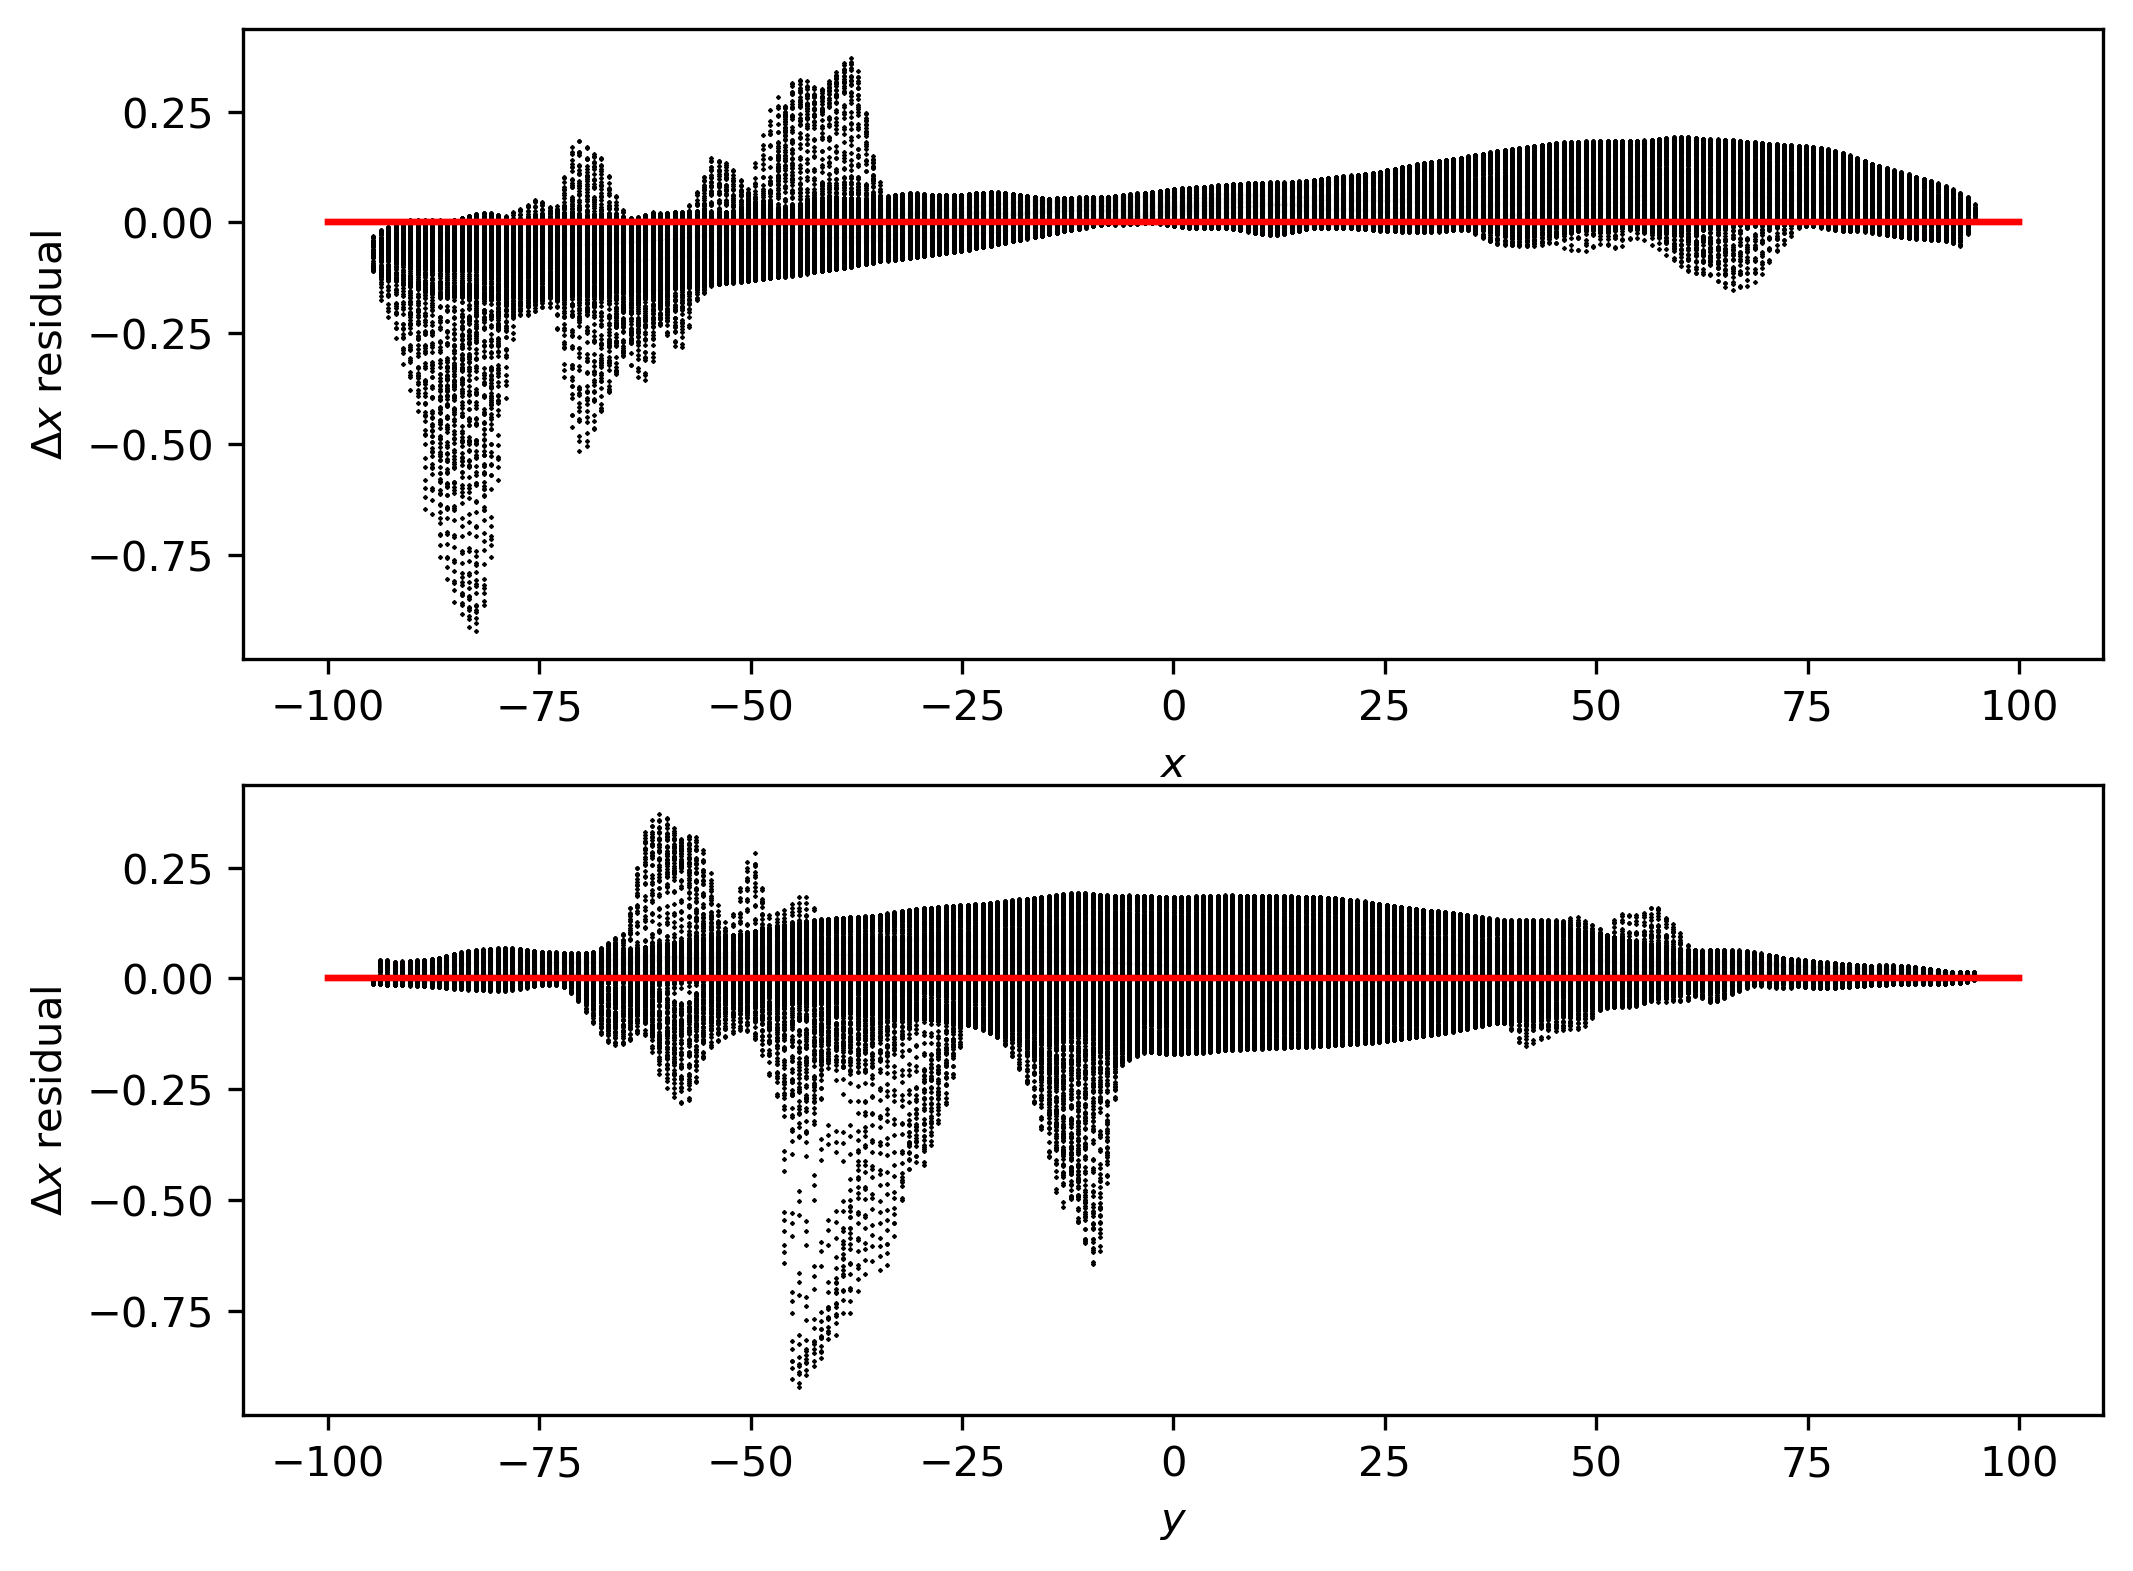
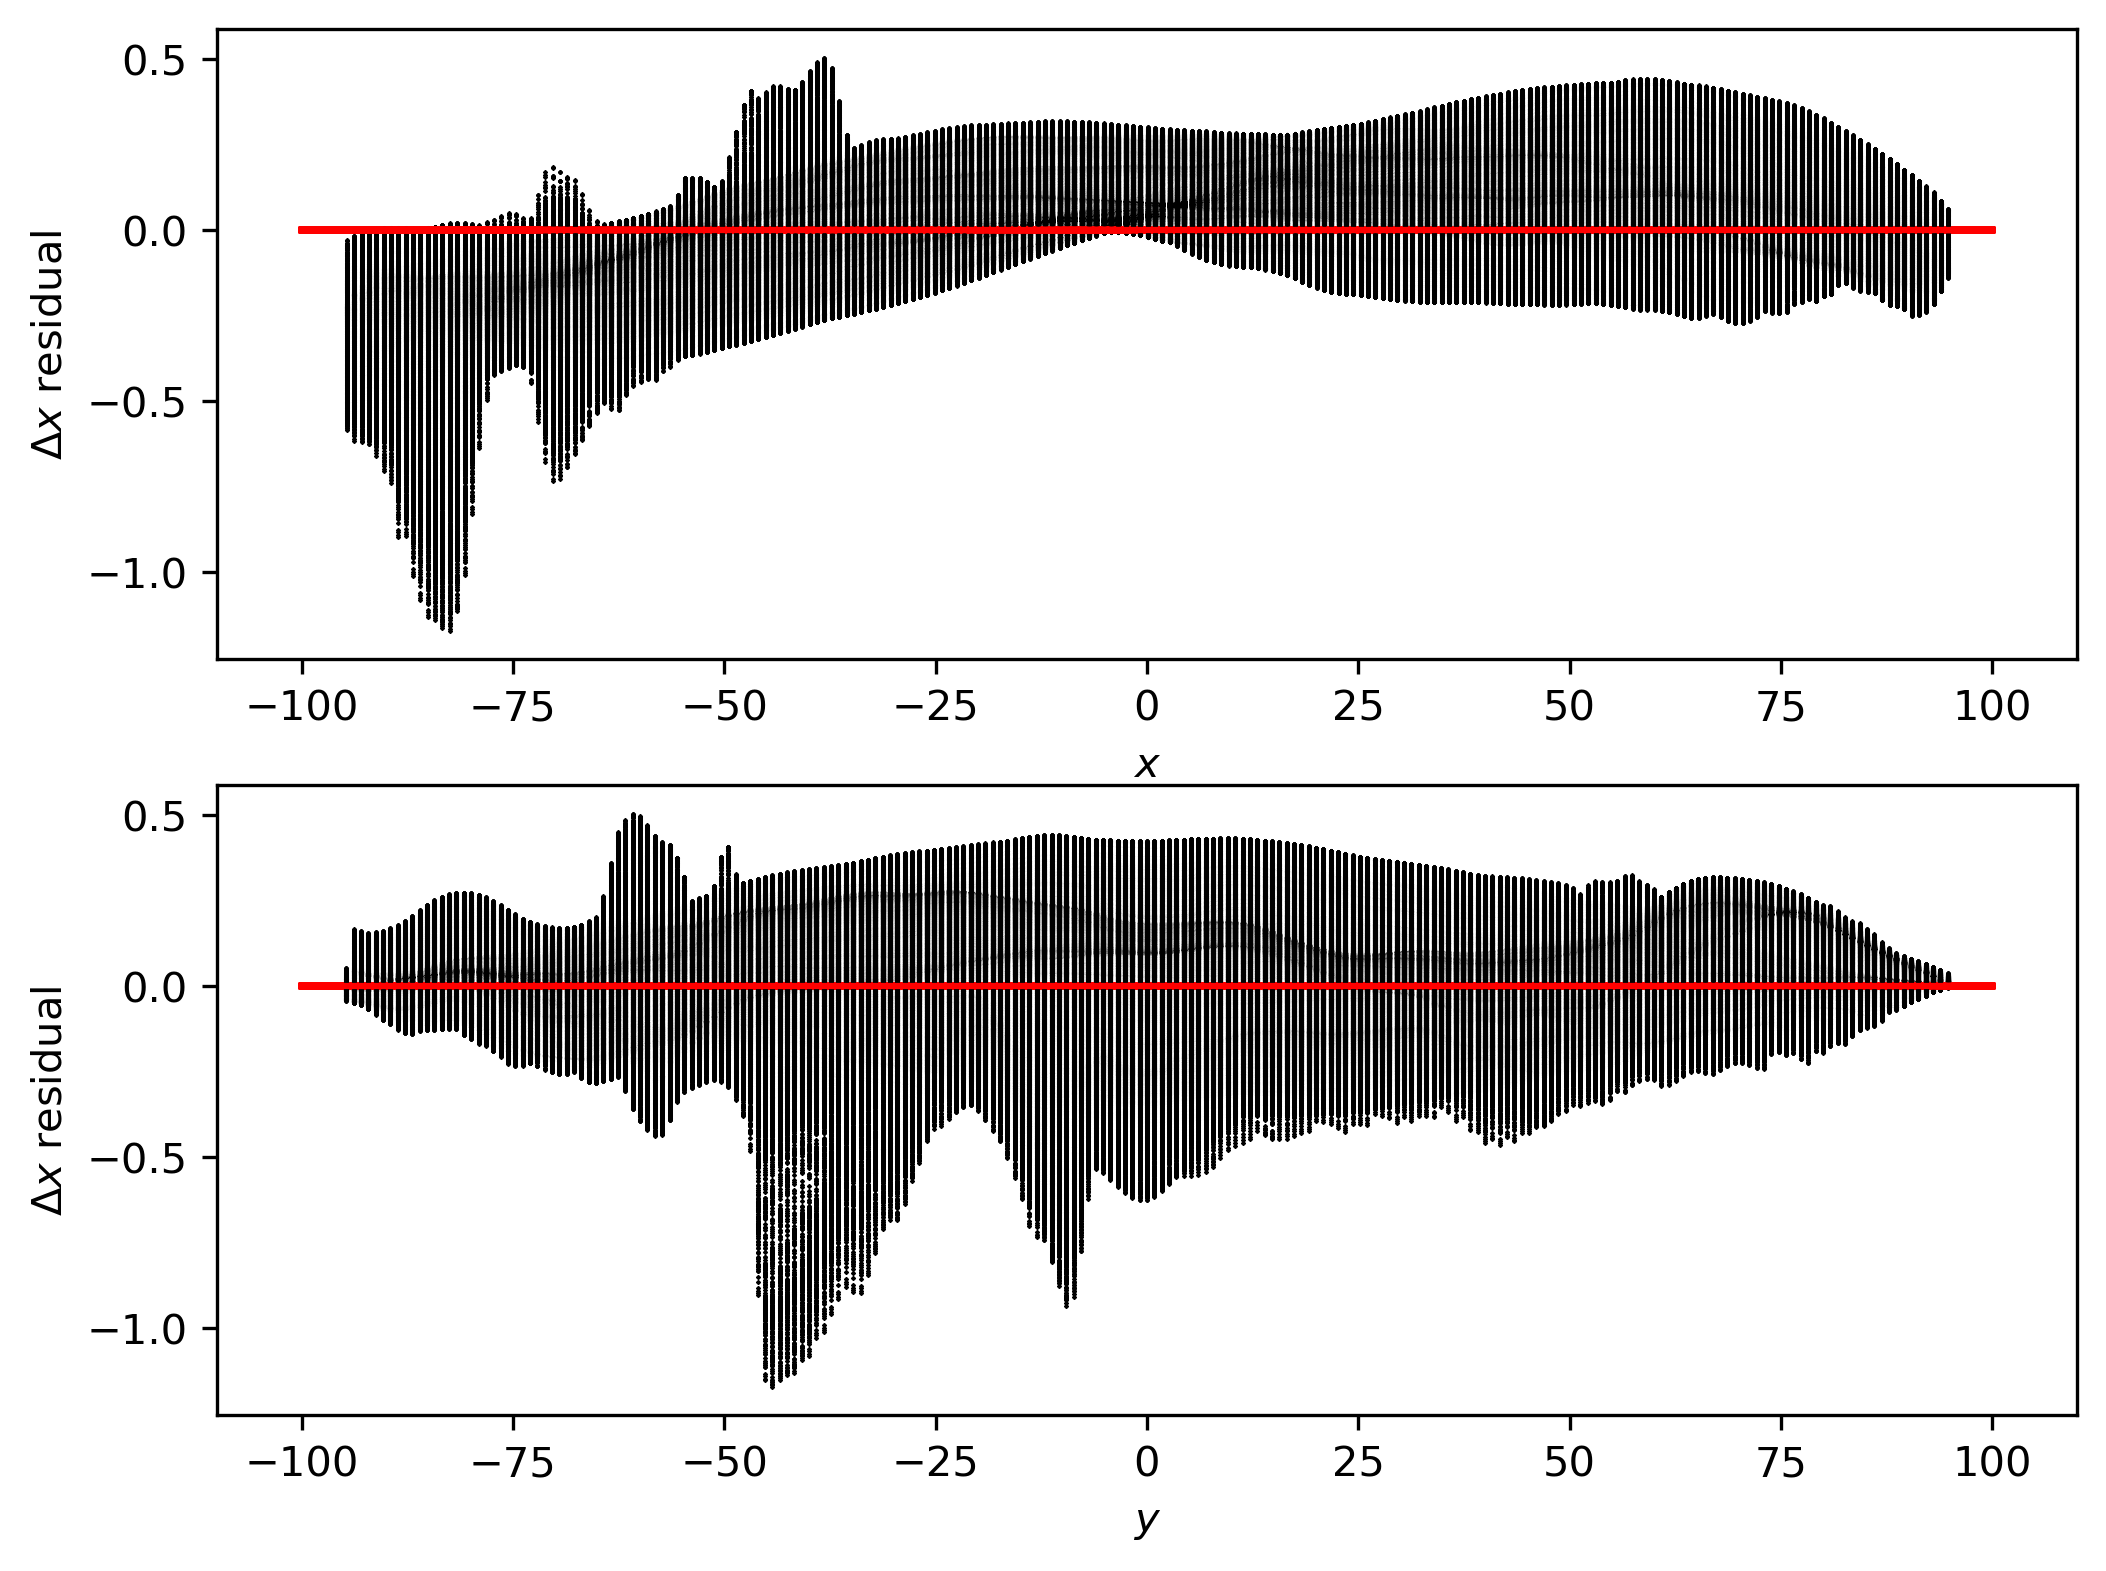
try line plots

diff --git a/lin_ortho_known/opt_results/residual_plots/plot_last_only_w.py b/lin_ortho_known/opt_results/residual_plots/plot_last_only_w.py
@@ -1,0 +1,83 @@
+import numpy as np
+import matplotlib.pyplot as plt
+import os
+
+homeuser = os.path.expanduser('~')
+
+filenames = ['residuals_blue00_w.npy',
+             'residuals_blue01_w.npy',
+             'residuals_blue02_w.npy',
+             'residuals_blue03_w.npy']
+datanames = ['blue00.npy',
+             'blue01_rotated_90.npy',
+             'blue02_rotated_90.npy',
+             'blue03.npy']
+
+perfx = np.linspace(-100, 100, 100)
+perfy = np.zeros(100)
+
+for i in range(0, 4):
+# for residual_file in filenames:
+    resids = np.load(filenames[i], allow_pickle=True)
+    print(resids.shape)
+    data = np.load(os.path.join(homeuser, datanames[i]), allow_pickle=True)
+    fig_dx, ax_dx = plt.subplots(2, 1, figsize=(8, 6))
+    fig_dy, ax_dy = plt.subplots(2, 1, figsize=(8, 6))
+    fig_dz, ax_dz = plt.subplots(2, 1, figsize=(8, 6))
+    my_shape = resids.shape
+    for j in range(my_shape[1]):
+        print(j)
+        if j == my_shape[1] - 1:
+            x = data[j][0][:, 0]
+            y = data[j][0][:, 1]
+            z = data[j][0][:, 2]
+            dx = resids[0][j]
+            dy = resids[1][j]
+            dz = resids[2][j]
+
+            # ax_dx[0].set_title('$\Delta x$ residual' + ' Test number: ' + str(i+1))
+            ax_dx[0].plot(x, dx, 'xk', markersize=.5)
+            ax_dx[0].plot(perfx, perfy, '-r')
+            ax_dx[0].set_xlabel('$x$', fontsize='10')
+            ax_dx[0].set_ylabel('$\Delta x$ residual', fontsize='10')
+            ax_dx[1].plot(y, dx, 'xk', markersize=.5)
+            ax_dx[1].plot(perfx, perfy, '-r')
+            ax_dx[1].set_xlabel('$y$', fontsize='10')
+            ax_dx[1].set_ylabel('$\Delta x$ residual', fontsize='10')
+
+            # ax_dy[0].set_title('$\Delta y$ residual' + ' Test number: ' + str(i+1))
+            ax_dy[0].plot(x, dy, 'xk', markersize=.5)
+            ax_dy[0].plot(perfx, perfy, '-r')
+            ax_dy[0].set_xlabel('$x$', fontsize='10')
+            ax_dy[0].set_ylabel('$\Delta y$ residual', fontsize='10')
+            ax_dy[1].plot(y, dy, 'xk', markersize=.5)
+            ax_dy[1].plot(perfx, perfy, '-r')
+            ax_dy[1].set_xlabel('$y$', fontsize='10')
+            ax_dy[1].set_ylabel('$\Delta y$ residual', fontsize='10')
+
+            # ax_dz[0].set_title('$\Delta z$ residual' + ' Test number: ' + str(i+1))
+            ax_dz[0].plot(x, dz, 'xk', markersize=.5)
+            ax_dz[0].plot(perfx, perfy, '-r')
+            ax_dz[0].set_xlabel('$x$', fontsize='10')
+            ax_dz[0].set_ylabel('$\Delta z$ residual', fontsize='10')
+            ax_dz[1].plot(y, dz, 'xk', markersize=.5)
+            ax_dz[1].plot(perfx, perfy, '-r')
+            ax_dz[1].set_xlabel('$y$', fontsize='10')
+            ax_dz[1].set_ylabel('$\Delta z$ residual', fontsize='10')
+            # if i == 1 or i == 2:
+            #     ax_dx[0].set_ylim([-2., 2.])
+            #     ax_dx[1].set_ylim([-2, 2.])
+            #     ax_dy[0].set_ylim([-2., 2.])
+            #     ax_dy[1].set_ylim([-2, 2.])
+            #     ax_dz[0].set_ylim([-10., 10.])
+            #     ax_dz[1].set_ylim([-10, 10.])
+    # save each fig
+    fig_dx.savefig('last_dx' + str(i) + '_w.png', bbox_inches='tight', dpi=300)
+    fig_dy.savefig('last_dy' + str(i) + '_w.png', bbox_inches='tight', dpi=300)
+    fig_dz.savefig('last_dz' + str(i) + '_w.png', bbox_inches='tight', dpi=300)
+    # fig_dx.savefig('dx' + str(i) + '.pdf', bbox_inches='tight')
+    # fig_dy.savefig('dy' + str(i) + '.pdf', bbox_inches='tight')
+    # fig_dz.savefig('dz' + str(i) + '.pdf', bbox_inches='tight')
+
+        # break
+    # plt.show()

diff --git a/lin_ortho_known/opt_results/residual_plots/plot_last_only_no_weight.py b/lin_ortho_known/opt_results/residual_plots/plot_last_only_no_weight.py
@@ -1,0 +1,83 @@
+import numpy as np
+import matplotlib.pyplot as plt
+import os
+
+homeuser = os.path.expanduser('~')
+
+filenames = ['residuals_blue00.npy',
+             'residuals_blue01.npy',
+             'residuals_blue02.npy',
+             'residuals_blue03.npy']
+datanames = ['blue00.npy',
+             'blue01_rotated_90.npy',
+             'blue02_rotated_90.npy',
+             'blue03.npy']
+
+perfx = np.linspace(-100, 100, 100)
+perfy = np.zeros(100)
+
+for i in range(0, 4):
+# for residual_file in filenames:
+    resids = np.load(filenames[i], allow_pickle=True)
+    print(resids.shape)
+    data = np.load(os.path.join(homeuser, datanames[i]), allow_pickle=True)
+    fig_dx, ax_dx = plt.subplots(2, 1, figsize=(8, 6))
+    fig_dy, ax_dy = plt.subplots(2, 1, figsize=(8, 6))
+    fig_dz, ax_dz = plt.subplots(2, 1, figsize=(8, 6))
+    my_shape = resids.shape
+    for j in range(my_shape[1]):
+        print(j)
+        if j == my_shape[1] - 1:
+            x = data[j][0][:, 0]
+            y = data[j][0][:, 1]
+            z = data[j][0][:, 2]
+            dx = resids[0][j]
+            dy = resids[1][j]
+            dz = resids[2][j]
+
+            # ax_dx[0].set_title('$\Delta x$ residual' + ' Test number: ' + str(i+1))
+            ax_dx[0].plot(x, dx, 'xk', markersize=.5)
+            ax_dx[0].plot(perfx, perfy, '-r')
+            ax_dx[0].set_xlabel('$x$', fontsize='10')
+            ax_dx[0].set_ylabel('$\Delta x$ residual', fontsize='10')
+            ax_dx[1].plot(y, dx, 'xk', markersize=.5)
+            ax_dx[1].plot(perfx, perfy, '-r')
+            ax_dx[1].set_xlabel('$y$', fontsize='10')
+            ax_dx[1].set_ylabel('$\Delta x$ residual', fontsize='10')
+
+            # ax_dy[0].set_title('$\Delta y$ residual' + ' Test number: ' + str(i+1))
+            ax_dy[0].plot(x, dy, 'xk', markersize=.5)
+            ax_dy[0].plot(perfx, perfy, '-r')
+            ax_dy[0].set_xlabel('$x$', fontsize='10')
+            ax_dy[0].set_ylabel('$\Delta y$ residual', fontsize='10')
+            ax_dy[1].plot(y, dy, 'xk', markersize=.5)
+            ax_dy[1].plot(perfx, perfy, '-r')
+            ax_dy[1].set_xlabel('$y$', fontsize='10')
+            ax_dy[1].set_ylabel('$\Delta y$ residual', fontsize='10')
+
+            # ax_dz[0].set_title('$\Delta z$ residual' + ' Test number: ' + str(i+1))
+            ax_dz[0].plot(x, dz, 'xk', markersize=.5)
+            ax_dz[0].plot(perfx, perfy, '-r')
+            ax_dz[0].set_xlabel('$x$', fontsize='10')
+            ax_dz[0].set_ylabel('$\Delta z$ residual', fontsize='10')
+            ax_dz[1].plot(y, dz, 'xk', markersize=.5)
+            ax_dz[1].plot(perfx, perfy, '-r')
+            ax_dz[1].set_xlabel('$y$', fontsize='10')
+            ax_dz[1].set_ylabel('$\Delta z$ residual', fontsize='10')
+            # if i == 1 or i == 2:
+            #     ax_dx[0].set_ylim([-2., 2.])
+            #     ax_dx[1].set_ylim([-2, 2.])
+            #     ax_dy[0].set_ylim([-2., 2.])
+            #     ax_dy[1].set_ylim([-2, 2.])
+            #     ax_dz[0].set_ylim([-10., 10.])
+            #     ax_dz[1].set_ylim([-10, 10.])
+    # save each fig
+    fig_dx.savefig('last_dx' + str(i) + '.png', bbox_inches='tight', dpi=300)
+    fig_dy.savefig('last_dy' + str(i) + '.png', bbox_inches='tight', dpi=300)
+    fig_dz.savefig('last_dz' + str(i) + '.png', bbox_inches='tight', dpi=300)
+    # fig_dx.savefig('dx' + str(i) + '.pdf', bbox_inches='tight')
+    # fig_dy.savefig('dy' + str(i) + '.pdf', bbox_inches='tight')
+    # fig_dz.savefig('dz' + str(i) + '.pdf', bbox_inches='tight')
+
+        # break
+    # plt.show()

diff --git a/lin_ortho_known/opt_results/residual_plots/plot_last_only_no_weight_3d.py b/lin_ortho_known/opt_results/residual_plots/plot_last_only_no_weight_3d.py
@@ -1,0 +1,47 @@
+import numpy as np
+import matplotlib.pyplot as plt
+import os
+from mpl_toolkits.mplot3d import Axes3D
+homeuser = os.path.expanduser('~')
+
+filenames = ['residuals_blue00.npy',
+             'residuals_blue01.npy',
+             'residuals_blue02.npy',
+             'residuals_blue03.npy']
+datanames = ['blue00.npy',
+             'blue01_rotated_90.npy',
+             'blue02_rotated_90.npy',
+             'blue03.npy']
+
+perfx = np.linspace(-100, 100, 100)
+perfy = np.zeros(100)
+
+for i in range(0, 4):
+# for residual_file in filenames:
+    resids = np.load(filenames[i], allow_pickle=True)
+    print(resids.shape)
+    data = np.load(os.path.join(homeuser, datanames[i]), allow_pickle=True)
+
+    my_shape = resids.shape
+    for j in range(my_shape[1]):
+        print(j)
+        if j == my_shape[1] - 1:
+            x = data[j][0][:, 0]
+            y = data[j][0][:, 1]
+            z = data[j][0][:, 2]
+            dx = resids[0][j]
+            dy = resids[1][j]
+            dz = resids[2][j]
+            fig = plt.figure()
+            ax = fig.add_subplot(111, projection='3d')
+            ax = fig.add_subplot(111, projection='3d')
+            ax.scatter(x, y, data[j][0][:, 5], marker='.')
+            ax.scatter(x, y, dz, marker='.')
+
+            ax.set_xlabel('$x$', fontsize='10')
+            ax.set_ylabel('$y$', fontsize='10')
+            ax.set_zlabel('$\Delta z$ residual', fontsize='10')
+            plt.show()
+            # break
+        # break
+    # break

diff --git a/lin_ortho_known/opt_results/residual_plots/plot_residuals_w.py b/lin_ortho_known/opt_results/residual_plots/plot_residuals_w.py
@@ -26,7 +26,9 @@ for i in range(0, 4):
     fig_dz, ax_dz = plt.subplots(2, 1, figsize=(8, 6))
     
 
-    for j, _ in enumerate(resids):
+    my_shape = resids.shape
+    for j in range(my_shape[1]):
+        print(j)
         x = data[j][0][:, 0]
         y = data[j][0][:, 1]
         z = data[j][0][:, 2]
@@ -70,12 +72,12 @@ for i in range(0, 4):
             ax_dy[1].set_ylim([-2, 2.])
             ax_dz[0].set_ylim([-10., 10.])
             ax_dz[1].set_ylim([-10, 10.])
-        # save each fig
-        fig_dx.savefig('dx' + str(i) + '_w.png', bbox_inches='tight', dpi=300)
-        fig_dy.savefig('dy' + str(i) + '_w.png', bbox_inches='tight', dpi=300)
-        fig_dz.savefig('dz' + str(i) + '_w.png', bbox_inches='tight', dpi=300)
-        # fig_dx.savefig('dx' + str(i) + '_w.pdf', bbox_inches='tight')
-        # fig_dy.savefig('dy' + str(i) + '_w.pdf', bbox_inches='tight')
-        # fig_dz.savefig('dz' + str(i) + '_w.pdf', bbox_inches='tight')
+    # save each fig
+    fig_dx.savefig('dx' + str(i) + '_w.png', bbox_inches='tight', dpi=300)
+    fig_dy.savefig('dy' + str(i) + '_w.png', bbox_inches='tight', dpi=300)
+    fig_dz.savefig('dz' + str(i) + '_w.png', bbox_inches='tight', dpi=300)
+    # fig_dx.savefig('dx' + str(i) + '_w.pdf', bbox_inches='tight')
+    # fig_dy.savefig('dy' + str(i) + '_w.pdf', bbox_inches='tight')
+    # fig_dz.savefig('dz' + str(i) + '_w.pdf', bbox_inches='tight')
 
     # break

diff --git a/lin_ortho_known/opt_results/residual_plots/plot_residuals_no_weight.py b/lin_ortho_known/opt_results/residual_plots/plot_residuals_no_weight.py
@@ -26,7 +26,9 @@ for i in range(0, 4):
     fig_dz, ax_dz = plt.subplots(2, 1, figsize=(8, 6))
     
 
-    for j, _ in enumerate(resids):
+    my_shape = resids.shape
+    for j in range(my_shape[1]):
+        print(j)
         x = data[j][0][:, 0]
         y = data[j][0][:, 1]
         z = data[j][0][:, 2]
@@ -70,12 +72,12 @@ for i in range(0, 4):
             ax_dy[1].set_ylim([-2, 2.])
             ax_dz[0].set_ylim([-10., 10.])
             ax_dz[1].set_ylim([-10, 10.])
-        # save each fig
-        fig_dx.savefig('dx' + str(i) + '.png', bbox_inches='tight', dpi=300)
-        fig_dy.savefig('dy' + str(i) + '.png', bbox_inches='tight', dpi=300)
-        fig_dz.savefig('dz' + str(i) + '.png', bbox_inches='tight', dpi=300)
-        # fig_dx.savefig('dx' + str(i) + '.pdf', bbox_inches='tight')
-        # fig_dy.savefig('dy' + str(i) + '.pdf', bbox_inches='tight')
-        # fig_dz.savefig('dz' + str(i) + '.pdf', bbox_inches='tight')
+    # save each fig
+    fig_dx.savefig('dx' + str(i) + '.png', bbox_inches='tight', dpi=300)
+    fig_dy.savefig('dy' + str(i) + '.png', bbox_inches='tight', dpi=300)
+    fig_dz.savefig('dz' + str(i) + '.png', bbox_inches='tight', dpi=300)
+    # fig_dx.savefig('dx' + str(i) + '.pdf', bbox_inches='tight')
+    # fig_dy.savefig('dy' + str(i) + '.pdf', bbox_inches='tight')
+    # fig_dz.savefig('dz' + str(i) + '.pdf', bbox_inches='tight')
 
     # break

diff --git a/lin_ortho_known/opt_results/residual_plots/plot_maxes.py b/lin_ortho_known/opt_results/residual_plots/plot_maxes.py
@@ -1,0 +1,41 @@
+import numpy as np
+import matplotlib.pyplot as plt
+import os
+from mpl_toolkits.mplot3d import Axes3D
+homeuser = os.path.expanduser('~')
+
+filenames = ['residuals_blue00.npy',
+             'residuals_blue01.npy',
+             'residuals_blue02.npy',
+             'residuals_blue03.npy']
+datanames = ['blue00.npy',
+             'blue01_rotated_90.npy',
+             'blue02_rotated_90.npy',
+             'blue03.npy']
+
+perfx = np.linspace(-100, 100, 100)
+perfy = np.zeros(100)
+
+for i in range(0, 4):
+# for residual_file in filenames:
+    resids = np.load(filenames[i], allow_pickle=True)
+    print(resids.shape)
+    data = np.load(os.path.join(homeuser, datanames[i]), allow_pickle=True)
+
+    my_shape = resids.shape
+    # compute dx max, compute dy max, compute dz max
+    dx_max = []
+    dy_max = []
+    dz_max = []
+    for j in range(my_shape[1]):
+            dx_max.append(resids[0][j].max())
+            dy_max.append(resids[1][j].max())
+            dz_max.append(resids[2][j].max())
+    plt.figure()
+    plt.plot(data[:, 1], dz_max, '-.')
+    plt.xlabel('Pressure')
+    plt.ylabel(r'$\Delta x max$')
+    plt.show()
+            # break
+        # break
+    # break
